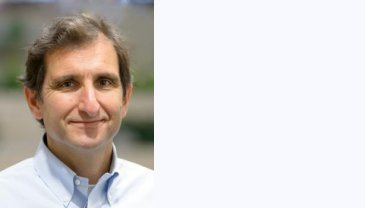
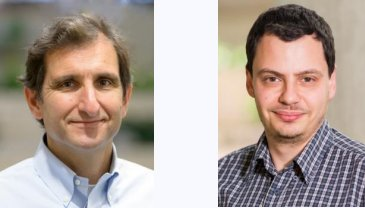
new Deputy for ANL

diff --git a/pages/about/people.md b/pages/about/people.md
@@ -23,7 +23,7 @@ executive_directors:
     description: <a href="https://www.bsc.es/beltran-vicenc">Vicenç Beltran</a>, <a href="https://www.bsc.es/pena-antonio">Antonio J. Peña</a>
     image: "/assets/images/people/Executive_Directors/BSC.jpg"
   - name: "ANL"
-    description: <a href="https://www.anl.gov/profile/franck-cappello">Franck Cappello</a>
+    description: <a href="https://www.anl.gov/profile/franck-cappello">Franck Cappello</a>, <a href="https://www.anl.gov/profile/bogdan-nicolae">Bogdan Nicolae</a>
     image: "/assets/images/people/Executive_Directors/ANL.jpg"
   - name: "RIKEN"
     description: <a href="https://www.riken.jp/en/research/labs/r-ccs/processor/index.html">Kentaro Sano</a>, Tomohiro Ueno
@@ -59,7 +59,8 @@ early_career_committee:
   enabled: true
   list:
   - name: "JSC"
-    description: Sina Mattfeldt
+    description: <a href="https://www.fz-juelich.de/profile/mattfeldt_s">Sina Mattfeldt</a>, <a href="https://www.fz-juelich.de/profile/fritz_j"> Jakob Fritz</a> 
+    image: "/assets/images/people/Early_Career_Committee/JSC.jpg"
     #categories: "Leader"
   - name: "UIUC"
     description: "Colleen Heinemann"
